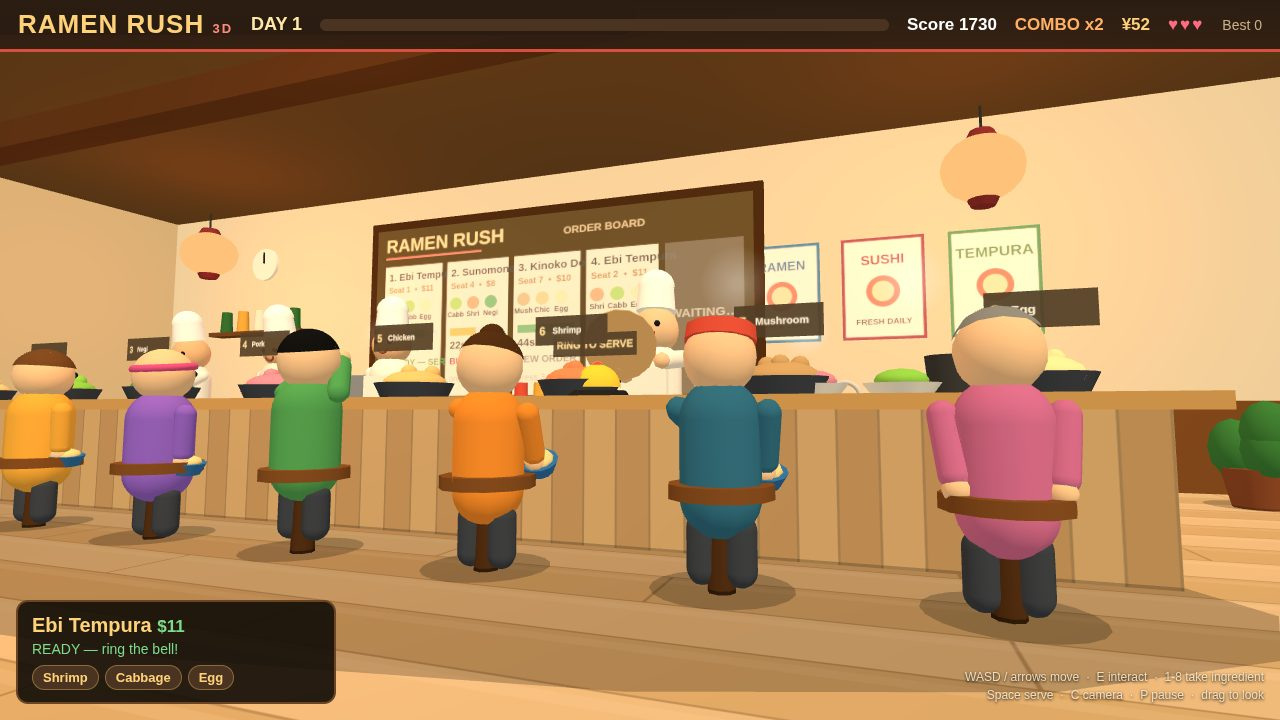
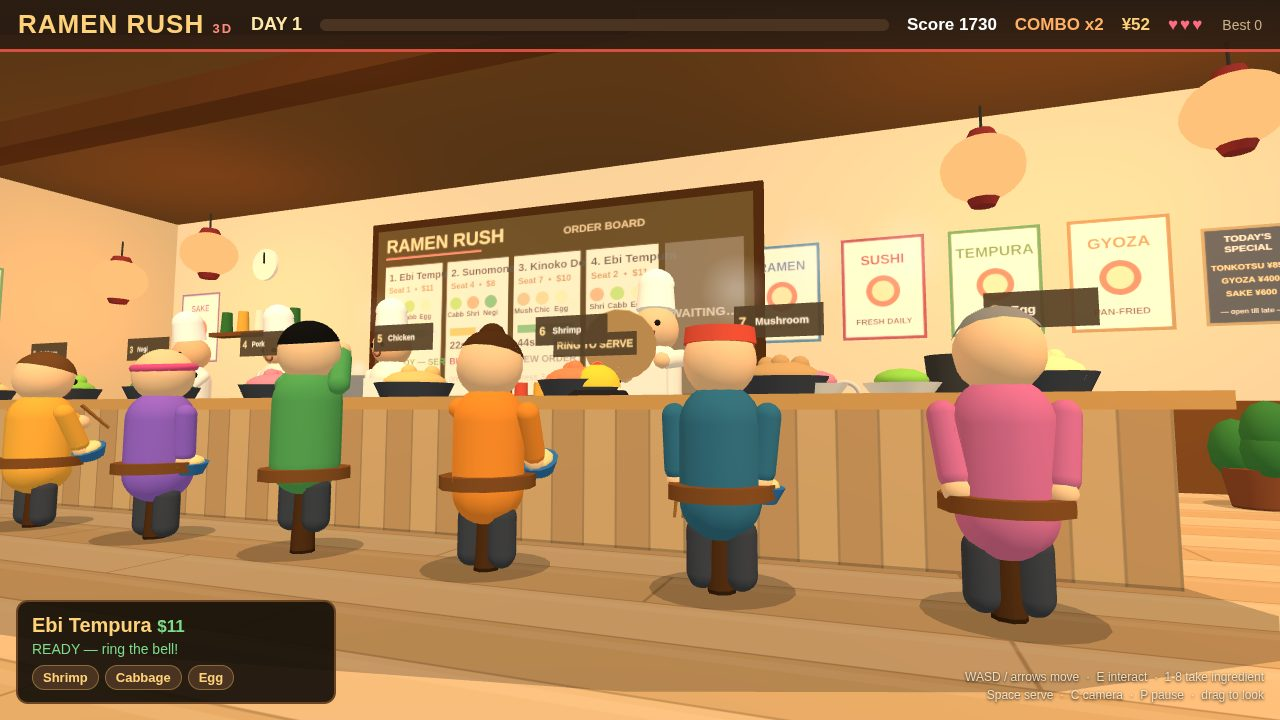
RAMEN RUSH 3D: dress the empty walls with posters, lanterns, shelves and noren

diff --git a/game/src/world.js b/game/src/world.js
@@ -104,7 +104,7 @@
     W.drawBoard = function (orders) { drawBoard(board, orders); };
 
     // ---- posters on the back wall (right side) ----
-    function poster(x, y, bg, title, sub) {
+    function poster(x, y, bg, title, sub, z, rotY) {
       const t = canvasTex(256, 340, (g, w, h) => {
         g.fillStyle = bg; g.fillRect(0, 0, w, h);
         g.fillStyle = '#fff8ea'; g.fillRect(10, 10, w - 20, h - 20);
@@ -117,12 +117,38 @@
         g.fillText(sub, w / 2, 290);
       });
       const m = new T.Mesh(new T.PlaneGeometry(1.1, 1.45), new T.MeshLambertMaterial({ map: t.tex }));
-      m.position.set(x, y, -4.44);
+      m.position.set(x, y, z === undefined ? -4.44 : z);
+      m.rotation.y = rotY || 0;
       scene.add(m);
     }
     poster(3.4, 2.7, '#1d4e89', 'RAMEN', 'SINCE 1987');
     poster(4.8, 2.7, '#7a1f2b', 'SUSHI', 'FRESH DAILY');
     poster(6.2, 2.7, '#2e6b34', 'TEMPURA', 'CRISPY!');
+    // more posters: fill the bare ends of the back wall + both side walls
+    poster(7.6, 2.7, '#8a5a2e', 'GYOZA', 'PAN-FRIED');
+    poster(-8.6, 2.7, '#5a3a6e', 'SAKE', 'HOT & COLD');
+    poster(-9.44, 2.7, '#2e6b34', 'EBI', 'CRISPY SHRIMP', -1.0, Math.PI / 2);
+    poster(-9.44, 2.7, '#7a1f2b', 'MATCHA', 'GREEN TEA', 1.5, Math.PI / 2);
+    poster(9.44, 2.7, '#8a5a2e', 'UDON', 'THICK NOODLE', -1.0, -Math.PI / 2);
+    poster(9.44, 2.7, '#1d4e89', 'DONBURI', 'RICE BOWL', 1.5, -Math.PI / 2);
+
+    // ---- small chalkboard menu (back wall, far right) ----
+    const chalk = canvasTex(256, 340, (g, w, h) => {
+      g.fillStyle = '#20242a'; g.fillRect(0, 0, w, h);
+      g.strokeStyle = '#8a6a3a'; g.lineWidth = 10; g.strokeRect(5, 5, w - 10, h - 10);
+      g.fillStyle = '#f5f2ea'; g.font = 'bold 30px sans-serif'; g.textAlign = 'center';
+      g.fillText("TODAY'S", w / 2, 52);
+      g.fillText('SPECIAL', w / 2, 88);
+      g.fillStyle = '#ffd27a'; g.font = 'bold 26px sans-serif';
+      g.fillText('TONKOTSU ¥850', w / 2, 150);
+      g.fillText('GYOZA ¥400', w / 2, 195);
+      g.fillText('SAKE ¥600', w / 2, 240);
+      g.fillStyle = '#f5f2ea'; g.font = '22px sans-serif';
+      g.fillText('— open till late —', w / 2, 300);
+    });
+    const chalkMesh = new T.Mesh(new T.PlaneGeometry(0.9, 1.2), new T.MeshLambertMaterial({ map: chalk.tex }));
+    chalkMesh.position.set(8.9, 2.6, -4.44);
+    scene.add(chalkMesh);
 
     // ---- shelf with bottles (back wall, left) ----
     box(2.4, 0.08, 0.3, 0x6b4423, -6.8, 2.5, -4.35, scene);
@@ -327,9 +353,9 @@
     // steam over grill pans
     W.steam.push(makeSteam(scene, -4.5, 1.4, -2.8));
 
-    // ---- hanging paper lanterns (2, warm glow, at the sides so they never
-    // block the menu board) ----
-    const lanternSpots = [[-5.8, 3.6, -2.5], [5.8, 3.6, -2.5]];
+    // ---- hanging paper lanterns (5, warm glow, at the sides so they never
+    // block the menu board; the extra three hang at different heights) ----
+    const lanternSpots = [[-5.8, 3.6, -2.5], [5.8, 3.6, -2.5], [-8.0, 3.3, -2.5], [8.0, 3.9, -2.5], [7.2, 3.6, 2.0]];
     lanternSpots.forEach(([x, ly, lz]) => {
       const grp = new T.Group();
       grp.position.set(x, ly, lz);
@@ -349,6 +375,37 @@
       light.position.set(x, ly - 0.4, lz);
       scene.add(light);
       W.lanternLights.push({ grp, light, phase: x });
+    });
+
+    // ---- second shelf with jars (right wall, above the bonsai table) ----
+    box(0.3, 0.08, 2.0, 0x6b4423, 9.35, 2.6, 4.0, scene);
+    const jarColors = [0xd9a441, 0x2e6b34, 0xd94f3d, 0xe8e2d4];
+    jarColors.forEach((c, i) => {
+      const j = new T.Mesh(new T.CylinderGeometry(0.11, 0.12, 0.3, 10), lam(c));
+      j.position.set(9.35, 2.79, 3.3 + i * 0.47);
+      scene.add(j);
+      const lid = new T.Mesh(new T.CylinderGeometry(0.12, 0.12, 0.05, 10), lam(0x4a2c14));
+      lid.position.set(9.35, 2.96, 3.3 + i * 0.47);
+      scene.add(lid);
+    });
+
+    // ---- noren curtain over a passage on the left wall ----
+    const norenRod = new T.Mesh(new T.CylinderGeometry(0.03, 0.03, 1.9, 8), lam(0x4a2c14));
+    norenRod.rotation.x = Math.PI / 2;
+    norenRod.position.set(-9.42, 3.15, 5.5);
+    scene.add(norenRod);
+    [-0.6, 0, 0.6].forEach((dz, i) => {
+      const nTex = canvasTex(128, 256, (g, w, h) => {
+        g.fillStyle = i === 1 ? '#7a1f2b' : '#2f3a6b'; g.fillRect(0, 0, w, h);
+        g.fillStyle = '#f5f2ea'; g.beginPath(); g.arc(w / 2, 90, 42, 0, Math.PI * 2); g.fill();
+        g.fillStyle = i === 1 ? '#7a1f2b' : '#2f3a6b'; g.beginPath(); g.arc(w / 2, 90, 26, 0, Math.PI * 2); g.fill();
+        g.fillStyle = '#f5f2ea'; g.font = 'bold 34px sans-serif'; g.textAlign = 'center';
+        g.fillText('RAMEN', w / 2, 200);
+      });
+      const panel = new T.Mesh(new T.PlaneGeometry(0.58, 1.4), new T.MeshLambertMaterial({ map: nTex.tex, side: T.DoubleSide }));
+      panel.rotation.y = Math.PI / 2;
+      panel.position.set(-9.42, 2.42, 5.5 + dz);
+      scene.add(panel);
     });
 
     // ---- stools for customers ----
